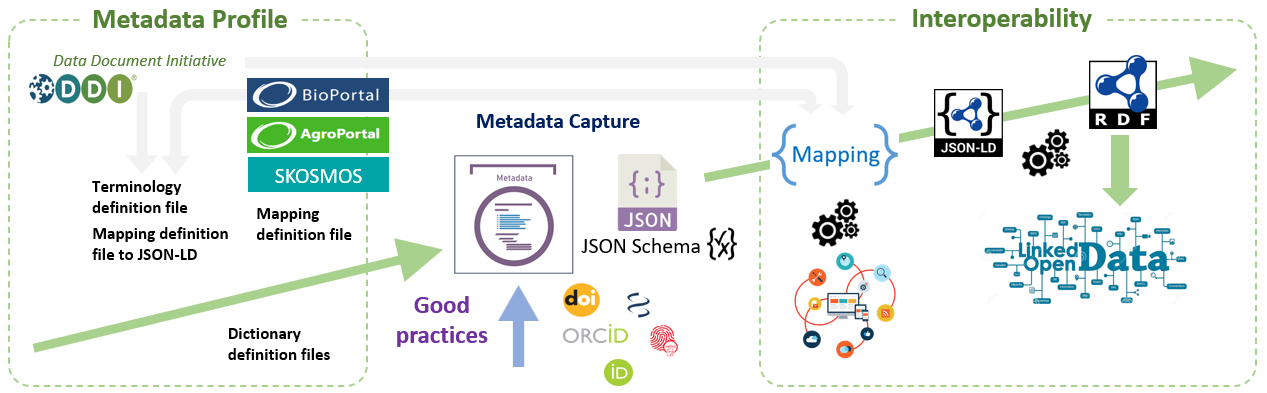
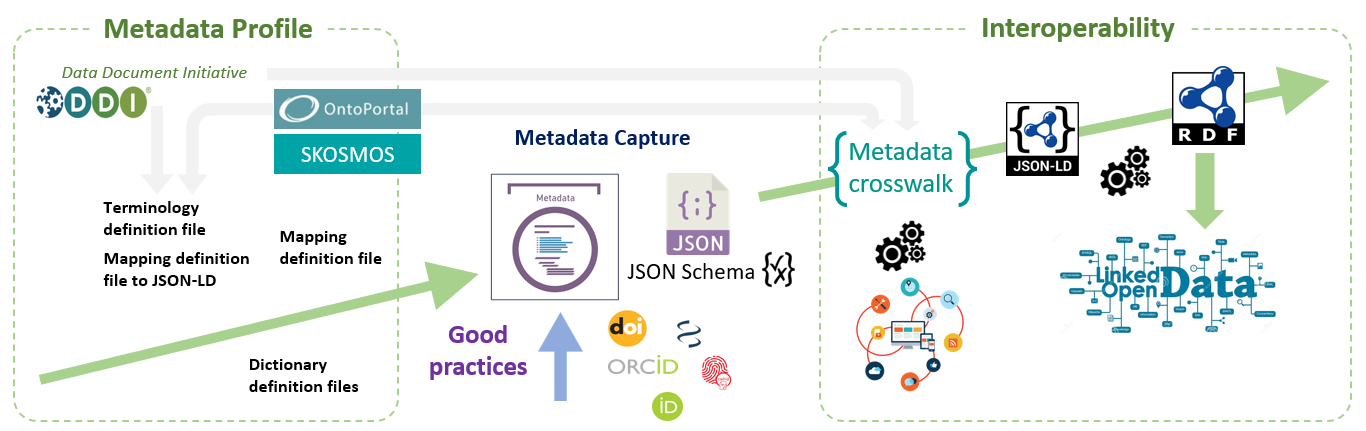
update

diff --git a/docs/configuration.md b/docs/configuration.md
@@ -11,7 +11,7 @@ some_url:
 
 ### Terminology configuration
 
-A single file (***web/conf/config_terms.txt***) contains all the [terminology](../definitions/terminology/). The input and search interfaces are completely generated from this definition file, thus defining each of the fields, their input type (*checkbox*, *dropbox*, *textbox*, ...) and the associated controlled vocabulary (ontology and thesaurus by autocompletion, drop-down list according to a list of fixed terms). This is why a configuration and conversion step into JSON[^1] format is essential in order to be able to configure all the other modules (example: creation of the [MongoDB][1]{:target="_blank"} database schema when starting the application before filling it).
+A single file (***web/conf/config_terms.txt***) contains all the [terminology](../definitions/terminology/). The input and search interfaces are completely generated from this definition file, thus defining each of the fields, their input type (*checkbox*, *dropbox*, *textbox*, ...) and the associated controlled vocabulary (ontology and thesaurus by autocompletion, drop-down list according to a list of fixed terms). This is why a configuration and conversion step into JSON format is essential in order to be able to configure all the other modules (example: creation of the [MongoDB][1]{:target="_blank"} database schema when starting the application before filling it).
 
 <center>
 <a href="../images/config.png" data-lightbox="fig0"><img src="../images/config.png" width="800px"></a>
@@ -22,7 +22,7 @@ A single file (***web/conf/config_terms.txt***) contains all the [terminology](.
 
 #### TSV to JSON
 
-* This function is used to generate the terminology definition file in JSON[^1] format (**_config_terms.json_**) and the corresponding JSON-Schema[^2] file (**_maggot-schema.json_**) from a tabulated file (**1**). You can either create a terminology definition file in TSV format from scratch (see below to have more details), or extract the file from the current configuration (see [JSON to TSV](#json-to-tsv)).
+* This function is used to generate the terminology definition file in JSON format (**_config_terms.json_**) and the corresponding JSON-Schema file (**_maggot-schema.json_**) from a tabulated file (**1**). You can either create a terminology definition file in TSV format from scratch (see below to have more details), or extract the file from the current configuration (see [JSON to TSV](#json-to-tsv)).
 
 * Once the terminology definition file has been obtained (**2**), you can load it and press 'Submit'.
 
@@ -33,7 +33,7 @@ A single file (***web/conf/config_terms.txt***) contains all the [terminology](.
 
 #### TSV to DOC
 
-* This function generates the markdown[^4] documentation file (**_doc.md_**) from the template file (**_config_doc.txt_**) which is itself generated from the metadata definition file (**_config_terms.txt_**, cf [TSV to JSON](#tsv-to-json)).
+* This function generates the markdown documentation file (**_doc.md_**) from the template file (**_config_doc.txt_**) which is itself generated from the metadata definition file (**_config_terms.txt_**, cf [TSV to JSON](#tsv-to-json)).
 
 * Once the template file for the documentation (**_config_doc.txt_**) has been edited and documented (**6**) (see below to have more details), you can load it and press _Submit_ button.
 
@@ -47,9 +47,11 @@ A single file (***web/conf/config_terms.txt***) contains all the [terminology](.
 
 <br>
 
-[^1]: *JavaScript Object Notation* : format used to represent structured information
-[^2]: *JSON-Schema*: vocabulary that allows you to annotate and validate JSON documents.
-[^3]: *TSV*: open text format representing tabular data as "tab-separated values". Each row corresponds to a table row and the cells in a row are separated by a tab.
-[^4]: *Markdown*: Markdown is a lightweight markup language designed to provide easy-to-read and easy-to-write syntax. A Markdown document can be read as is without appearing to have been marked up or formatted with special instructions.
+*[TSV]: Open text format representing tabular data as "Tab-Separated Values". Each row corresponds to a table row and the cells in a row are separated by a tab
+*[JSON]: JavaScript Object Notation : format used to represent structured information
+*[autocompletion]: feature in which an application predicts the rest of a word a user is typing
+*[JSON-Schema]: vocabulary that allows you to annotate and validate JSON documents.
+*[Markdown]: a lightweight markup language designed to provide easy-to-read and easy-to-write syntax. A Markdown document can be read as is without appearing to have been marked up or formatted with special instructions.
+
 
 [1]: https://www.mongodb.com/basics

diff --git a/docs/about.md b/docs/about.md
@@ -33,34 +33,36 @@ some_url:
 * Concerning the first idea: "Just" place a metadata file (JSON format) describing the project data in each subdirectory, and then find the projects and/or data corresponding to specific criteria. The choice fell on the JSON format, very suitable for describing metadata, readable by both humans and machines.
 * Concerning the second idea: Given the diversity of the fields, the approach chosen is to be both the most flexible and the most pragmatic possible by allowing users to choose their own vocabulary (controlled or not) corresponding to the reality of their field and their activities. However, a good approach is as much as possible to use only controlled vocabulary, that is to say relevant and sufficient vocabulary used as a reference in the field concerned to allow users to describe a project and its context without having to add additional terms. To this end, the tool must allow users a progressive approach towards the adoption of standardized controlled vocabularies (thesauri or even ontologies).
 
-* With the approach proposed by Maggot, initially there is no question of opening the data, but of managing metadata associated with the data on a storage space with a precise perimeter represented by the collective (unit, team, project , platform, …). The main characteristic of the tool is, above all, to “capture” the metadata as easily as possible according to a well-chosen metadata schema. However, the opening of data via their metadata must be a clearly stated objective within the framework of projects financed by public institutions (e.g Europe). Therefore if you have taken care to correctly define your metadata schema so that it is possible to make a correspondence (using a mapping file) with a data repository recognized by the international community, then you can easily "push" its metadata with the data without having re-enter anything.
+* With the approach proposed by Maggot, initially there is no question of opening the data, but of managing metadata associated with the data on a storage space with a precise perimeter represented by the collective (unit, team, project , platform, …). The main characteristic of the tool is, above all, to “capture” the metadata as easily as possible according to a well-chosen metadata schema. However, the opening of data via their metadata must be a clearly stated objective within the framework of projects financed by public institutions (e.g Europe). Therefore if you have taken care to correctly define your metadata schema so that it is possible to make a [metadata crosswalk][15]{:target="_blank"} (using a mapping file) with a data repository recognized by the international community, then you can easily "push" its metadata with the data without having re-enter anything.
 
 ---
 
 ### Links
 
 * **Source code on Github** : [inrae/pgd-mmdt][10]{:target="_blank"}
-* **Instance online** : [UMR 1322 BFP][11]{:target="_blank"}
+* **Instance online** : [INRAE UMR 1322 BFP][11]{:target="_blank"}
 
 
 ### Designers / Developers
 
-* Daniel Jacob ([@UMR INRAE BFP][2]{:target="_blank"}) | CATI [@PROSODIe][4]{:target="_blank"}
+* Daniel Jacob ([INRAE UMR BFP][2]{:target="_blank"}) | CATI [PROSODIe][4]{:target="_blank"}
 
-* François Ehrenmann ([@UMR INRAE BioGECO][1]{:target="_blank"}) | CATI [@GEDEOP][5]{:target="_blank"}
+* François Ehrenmann ([INRAE UMR BioGECO][1]{:target="_blank"}) | CATI [GEDEOP][5]{:target="_blank"}
 
-* Philippe Chaumeil ([@UMR INRAE BioGECO][1]{:target="_blank"})
+* Philippe Chaumeil ([INRAE UMR BioGECO][1]{:target="_blank"})
 
 
 ### Contributors
 
-* Edouard Guitton ([@INRAE Dept. SA][6]{:target="_blank"}, [@Emerg'IN][3]{:target="_blank"})
+* Edouard Guitton ([INRAE Dept. SA][6]{:target="_blank"}, [Emerg'IN][3]{:target="_blank"})
 
-* Stéphane Bernillon ([@UR INRAE MycSA][14]{:target="_blank"})
+* Stéphane Bernillon ([INRAE UR MycSA][14]{:target="_blank"})
 
-* Joseph TRAN ([@UMR INRAE EGFV][12]{:target="_blank"}) | CATI [@BARIC][13]{:target="_blank"}
+* Joseph TRAN ([INRAE UMR EGFV][12]{:target="_blank"}) | CATI [BARIC][13]{:target="_blank"}
 
-
+*[JSON]: JavaScript Object Notation : format used to represent structured information
+*[autocompletion]: feature in which an application predicts the rest of a word a user is typing
+*[FAIR]: Findable, Accessible, Interoperable and Reusable
 
 [1]: https://www6.bordeaux-aquitaine.inrae.fr/biogeco_eng/
 [2]: https://eng-bfp.bordeaux-aquitaine.hub.inrae.fr/
@@ -79,6 +81,7 @@ some_url:
 [13]: https://www.cesgo.org/catibaric/
 [14]: https://eng-mycsa.bordeaux-aquitaine.hub.inrae.fr/
 
+[15]: https://www.google.com/search?q=metadata+crosswalk+definition&oq=metadata+crosswalk
 
 <br><br>
 

diff --git a/docs/publish/index.md b/docs/publish/index.md
@@ -22,7 +22,7 @@ some_url:
 
 
 * We start from the Maggot JSON format metadata file generated from the web interface and based on the metadata profile defined by the terminology definition files. 
-* Then from a file defining the correspondence between the Maggot fields and those of the target repository, we can perform a metadata crosswalk to the JSON format supported by the web API of the target repository.
+* Then from a file defining the correspondence between the Maggot fields and those of the target repository, we can perform a [metadata crosswalk][7]{:target="_blank"} to the JSON format supported by the web API of the target repository.
 * During the process we enrich the metadata with controlled vocabularies based either on dictionaries or on thesauri and/or ontologies. For the latter cases, we use the web APIs of these sources to perform the mapping (see the [definition of mapping](../definitions/mapping)).
 * Finally, to be able to carry out the transfer i.e. the submission to the target repository (we say "push" for short), we first need to connect to the repository in order to retrieve the key (the [API token][1]{:target="_blank"}) authorizing us to submit the dataset. This obviously assumes that we have the privileges (creation/modification rights) to do so.
 
@@ -33,3 +33,4 @@ some_url:
 [4]: https://dataverse.org/
 [5]: https://www.openaire.eu/zenodo-guide
 [6]: https://open-research-europe.ec.europa.eu/for-authors/data-guidelines#approvedrepositories
+[7]: https://www.google.com/search?q=metadata+crosswalk+definition&oq=metadata+crosswalk

diff --git a/docs/definitions/mapping.md b/docs/definitions/mapping.md
@@ -11,7 +11,7 @@ some_url:
 
 ### Mapping definition File
 
-The mapping file is used as indicated by its name to match a term chosen by the user during entry with another term from an ontology or a thesaurus and therefore to obtain a URL which will be used for referencing. It can be used for each metadata crosswalk requiring such a mapping (e.g. to the [Dataverse](../dataverse), [Zenodo](../zenodo) or [JSON-LD](../json-ld) format).
+The mapping file is used as indicated by its name to match a term chosen by the user during entry with another term from an ontology or a thesaurus and therefore to obtain a URL which will be used for referencing. It can be used for each [metadata crosswalk][1]{:target="_blank"} requiring such a mapping (e.g. to the [Dataverse](../dataverse), [Zenodo](../zenodo) or [JSON-LD](../json-ld) format).
 
 The role of this definition file is illustrated with the figure above
 <center>
@@ -33,3 +33,5 @@ Below an example of Mapping definition file (TSV)
 <a href="../../images/mapping_fig1.png" data-lightbox="fig1"><img src="../../images/mapping_fig1.png" width="800px"></a>
 </center>
 <br>
+
+[1]: https://www.google.com/search?q=metadata+crosswalk+definition&oq=metadata+crosswalk

diff --git a/docs/definitions/json-ld.md b/docs/definitions/json-ld.md
@@ -24,7 +24,7 @@ Metadata schemas used to build the model proposed by default:
 
    * [Schema.org][2]{:target="_blank"}, [Bioschemas.org][3]{:target="_blank"}, [Datacite][4]{:target="_blank"}, [DDI-RDF][5]{:target="_blank"}, [DubinCore][6]{:target="_blank"}, [Dataverse][7]{:target="_blank"}
 
-Definition of the JSON-LD context using the metadata schemas proposed by default
+Definition of the [JSON-LD context][9]{:target="_blank"} using the metadata schemas proposed by default
 <center>
 <a href="../../images/jsonld_conf0.png" data-lightbox="conf0"><img src="../../images/jsonld_conf0.png" width="600px"></a>
 </center>
@@ -50,3 +50,4 @@ Example of JSON-LD file generated based on the definition file itself given as a
 [6]: https://www.dublincore.org/specifications/dublin-core/dcmi-terms/
 [7]: https://docs.google.com/spreadsheets/d/13HP-jI_cwLDHBetn9UKTREPJ_F4iHdAvhjmlvmYdSSw/edit#gid=0
 [8]: https://pmb-bordeaux.fr/maggot/metadata/frim1?format=jsonld
+[9]: https://niem.github.io/json/reference/json-ld/context/
